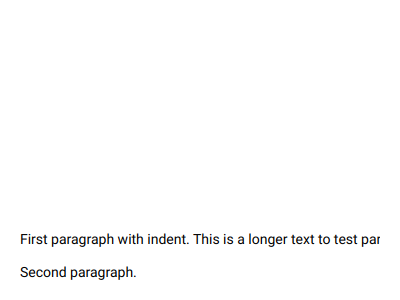
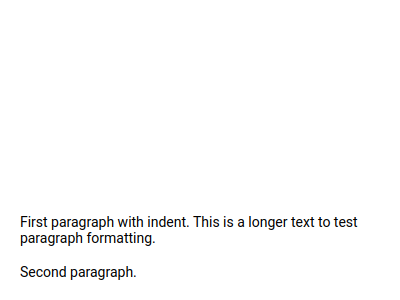
Improve Slint exporter text rendering: shadow, caps, wrap, letter-spacing
- Replace stroke-based text shadow with duplicate-text offset approach,
  producing proper shadow visuals (drop_shadow: 15.9% → 96.7%)
- Transform text to uppercase when fontCaps == 2 (AllCaps)
- Add wrap: word-wrap for paragraph text (ParagraphText type)
- Add letter-spacing property for absolute and percentage spacing

Changed region(s): [[0.03, 0.72, 0.96, 0.84], [0.03, 0.87, 0.33, 0.93]]

diff --git a/src/plugins/psdexporter/slint/slint.cpp b/src/plugins/psdexporter/slint/slint.cpp
@@ -519,30 +519,69 @@ bool QPsdExporterSlintPlugin::outputText(const QModelIndex &textIndex, Element *
     }
     if (runs.size() == 1) {
         const auto run = runs.first();
-        element->type = "Text";
-        element->properties.insert("overflow", "clip");
         QRect rect = computeTextBounds(text);
-        if (!outputBase(textIndex, element, imports, rect))
-            return false;
-        element->properties.insert("text", u"\"%1\""_s.arg(run.text.trimmed().replace("\n", "\\n")));
-        element->properties.insert("font-family", u"\"%1\""_s.arg(run.font.family()));
-        element->properties.insert("font-size", u"%1px"_s.ARGF(run.font.pointSizeF() * fontScaleFactor));
-        if (run.font.bold() || run.fauxBold)
-            element->properties.insert("font-weight", 700);
-        if (run.font.italic() || run.fauxItalic)
-            element->properties.insert("font-italic", true);
-        element->properties.insert("color", colorToSlint(run.color));
-        element->properties.insert("horizontal-alignment",
-            horizontalAlignmentString(run.alignment, {"left"_L1, "right"_L1, "center"_L1, "left"_L1}));
-        {
-            const auto vAlign = verticalAlignmentString(run.alignment, {"top"_L1, "bottom"_L1, "center"_L1});
-            if (!vAlign.isEmpty())
-                element->properties.insert("vertical-alignment", vAlign);
-        }
+        QString displayText = run.text.trimmed();
+        if (run.fontCaps == 2)
+            displayText = displayText.toUpper();
+        displayText.replace("\n"_L1, "\\n"_L1);
+
+        auto setTextProperties = [&](Element *e) {
+            e->type = "Text";
+            e->properties.insert("overflow", "clip");
+            e->properties.insert("text", u"\"%1\""_s.arg(displayText));
+            e->properties.insert("font-family", u"\"%1\""_s.arg(run.font.family()));
+            e->properties.insert("font-size", u"%1px"_s.ARGF(run.font.pointSizeF() * fontScaleFactor));
+            if (run.font.bold() || run.fauxBold)
+                e->properties.insert("font-weight", 700);
+            if (run.font.italic() || run.fauxItalic)
+                e->properties.insert("font-italic", true);
+            if (run.font.letterSpacingType() == QFont::AbsoluteSpacing) {
+                const qreal ls = run.font.letterSpacing();
+                if (qAbs(ls) > 0.01)
+                    e->properties.insert("letter-spacing", u"%1px"_s.ARGF(ls * fontScaleFactor));
+            } else if (run.font.letterSpacingType() == QFont::PercentageSpacing) {
+                const qreal ls = run.font.letterSpacing();
+                if (ls > 0.01 && qAbs(ls - 100.0) > 0.01)
+                    e->properties.insert("letter-spacing", u"%1px"_s.ARGF((ls - 100.0) / 100.0 * run.font.pointSizeF() * fontScaleFactor));
+            }
+            e->properties.insert("horizontal-alignment",
+                horizontalAlignmentString(run.alignment, {"left"_L1, "right"_L1, "center"_L1, "left"_L1}));
+            {
+                const auto vAlign = verticalAlignmentString(run.alignment, {"top"_L1, "bottom"_L1, "center"_L1});
+                if (!vAlign.isEmpty())
+                    e->properties.insert("vertical-alignment", vAlign);
+            }
+            if (text->textType() == QPsdTextLayerItem::TextType::ParagraphText)
+                e->properties.insert("wrap", "word-wrap");
+        };
+
         if (shadow) {
-            // slint doesn't support dropshadow for text
-            element->properties.insert("stroke-width", u"%1px"_s.ARGF(2 * unitScale));
-            element->properties.insert("stroke", shadow->color.name(QColor::HexArgb));
+            element->type = "Rectangle";
+            if (!outputBase(textIndex, element, imports, rect))
+                return false;
+            element->properties.insert("background", "transparent");
+
+            Element shadowText;
+            setTextProperties(&shadowText);
+            shadowText.properties.insert("color", colorToSlint(shadow->color));
+            const auto offset = dropShadowOffset(*shadow, true);
+            shadowText.properties.insert("x", u"%1px"_s.ARGF(offset.x()));
+            shadowText.properties.insert("y", u"%1px"_s.ARGF(offset.y()));
+            shadowText.properties.insert("width", "100%");
+            shadowText.properties.insert("height", "100%");
+            element->children.append(shadowText);
+
+            Element mainText;
+            setTextProperties(&mainText);
+            mainText.properties.insert("color", colorToSlint(run.color));
+            mainText.properties.insert("width", "100%");
+            mainText.properties.insert("height", "100%");
+            element->children.append(mainText);
+        } else {
+            setTextProperties(element);
+            if (!outputBase(textIndex, element, imports, rect))
+                return false;
+            element->properties.insert("color", colorToSlint(run.color));
         }
     } else {
         element->type = "Rectangle";
@@ -572,13 +611,25 @@ bool QPsdExporterSlintPlugin::outputText(const QModelIndex &textIndex, Element *
                 }
                 Element textElement;
                 textElement.type = "Text";
-                textElement.properties.insert("text", u"\"%1\""_s.arg(text));
+                QString displayText = text;
+                if (run.fontCaps == 2)
+                    displayText = displayText.toUpper();
+                textElement.properties.insert("text", u"\"%1\""_s.arg(displayText));
                 textElement.properties.insert("font-family", u"\"%1\""_s.arg(run.font.family()));
                 textElement.properties.insert("font-size", u"%1px"_s.ARGF(run.font.pointSizeF() * fontScaleFactor));
                 if (run.font.bold() || run.fauxBold)
                     textElement.properties.insert("font-weight", 700);
                 if (run.font.italic() || run.fauxItalic)
                     textElement.properties.insert("font-italic", true);
+                if (run.font.letterSpacingType() == QFont::AbsoluteSpacing) {
+                    const qreal ls = run.font.letterSpacing();
+                    if (qAbs(ls) > 0.01)
+                        textElement.properties.insert("letter-spacing", u"%1px"_s.ARGF(ls * fontScaleFactor));
+                } else if (run.font.letterSpacingType() == QFont::PercentageSpacing) {
+                    const qreal ls = run.font.letterSpacing();
+                    if (ls > 0.01 && qAbs(ls - 100.0) > 0.01)
+                        textElement.properties.insert("letter-spacing", u"%1px"_s.ARGF((ls - 100.0) / 100.0 * run.font.pointSizeF() * fontScaleFactor));
+                }
                 textElement.properties.insert("color", colorToSlint(run.color));
                 textElement.properties.insert("horizontal-alignment",
                     horizontalAlignmentString(run.alignment, {"left"_L1, "right"_L1, "center"_L1, "left"_L1}));

diff --git a/docs/similarity_report_psd-zoo.md b/docs/similarity_report_psd-zoo.md
@@ -5,8 +5,8 @@
 | Metric | Image Data vs QPsdView | Image Data vs QtQuick Export | Image Data vs Slint Export | Image Data vs Flutter Export | Image Data vs LVGL Export |
 |--------|------------------------|------------------------------|----------------------------|------------------------------|---------------------------|
 | Total Tests | 337 | 337 | 337 | 337 | 337 |
-| Passed Tests (>50%) | 293 (86.9%) | 234 (69.4%) | 230 (68.2%) | 215 (63.8%) | 216 (64.1%) |
-| Average Similarity | 87.69% | 70.91% | 69.94% | 67.50% | 66.63% |
+| Passed Tests (>50%) | 293 (86.9%) | 234 (69.4%) | 231 (68.5%) | 215 (63.8%) | 216 (64.1%) |
+| Average Similarity | 87.69% | 70.91% | 69.86% | 67.50% | 66.63% |
 
 ## adjustment
 
@@ -645,13 +645,13 @@
 |---:|---:|---:|---:|---:|---:|
 | [align_center.psd](https://github.com/signal-slot/psd-zoo/blob/master/text/align_center.psd) | 93.54% | [9.18%](exports/psd-zoo/text/align_center/QtQuick/) | [3.19%](exports/psd-zoo/text/align_center/Slint/) | [27.98%](exports/psd-zoo/text/align_center/Flutter/) | [21.50%](exports/psd-zoo/text/align_center/LVGL/) |
 | [<img src="images/imagedata/psd-zoo/text/align_center.png" width="140">](images/imagedata/psd-zoo/text/align_center.png) | [<img src="images/psdview/psd-zoo/text/align_center.png" width="140">](images/psdview/psd-zoo/text/align_center.png) | [<img src="images/qtquick/psd-zoo/text/align_center.png" width="140">](images/qtquick/psd-zoo/text/align_center.png) | [<img src="images/slint/psd-zoo/text/align_center.png" width="140">](images/slint/psd-zoo/text/align_center.png) | [<img src="images/flutter/psd-zoo/text/align_center.png" width="140">](images/flutter/psd-zoo/text/align_center.png) | [<img src="images/lvgl/psd-zoo/text/align_center.png" width="140">](images/lvgl/psd-zoo/text/align_center.png) |
-| [align_justify.psd](https://github.com/signal-slot/psd-zoo/blob/master/text/align_justify.psd) | 28.58% | [11.24%](exports/psd-zoo/text/align_justify/QtQuick/) | [15.68%](exports/psd-zoo/text/align_justify/Slint/) | [32.55%](exports/psd-zoo/text/align_justify/Flutter/) | [23.69%](exports/psd-zoo/text/align_justify/LVGL/) |
+| [align_justify.psd](https://github.com/signal-slot/psd-zoo/blob/master/text/align_justify.psd) | 28.58% | [11.24%](exports/psd-zoo/text/align_justify/QtQuick/) | [11.90%](exports/psd-zoo/text/align_justify/Slint/) | [32.55%](exports/psd-zoo/text/align_justify/Flutter/) | [23.69%](exports/psd-zoo/text/align_justify/LVGL/) |
 | [<img src="images/imagedata/psd-zoo/text/align_justify.png" width="140">](images/imagedata/psd-zoo/text/align_justify.png) | [<img src="images/psdview/psd-zoo/text/align_justify.png" width="140">](images/psdview/psd-zoo/text/align_justify.png) | [<img src="images/qtquick/psd-zoo/text/align_justify.png" width="140">](images/qtquick/psd-zoo/text/align_justify.png) | [<img src="images/slint/psd-zoo/text/align_justify.png" width="140">](images/slint/psd-zoo/text/align_justify.png) | [<img src="images/flutter/psd-zoo/text/align_justify.png" width="140">](images/flutter/psd-zoo/text/align_justify.png) | [<img src="images/lvgl/psd-zoo/text/align_justify.png" width="140">](images/lvgl/psd-zoo/text/align_justify.png) |
 | [align_left.psd](https://github.com/signal-slot/psd-zoo/blob/master/text/align_left.psd) | 84.67% | [11.78%](exports/psd-zoo/text/align_left/QtQuick/) | [4.09%](exports/psd-zoo/text/align_left/Slint/) | [23.53%](exports/psd-zoo/text/align_left/Flutter/) | [17.62%](exports/psd-zoo/text/align_left/LVGL/) |
 | [<img src="images/imagedata/psd-zoo/text/align_left.png" width="140">](images/imagedata/psd-zoo/text/align_left.png) | [<img src="images/psdview/psd-zoo/text/align_left.png" width="140">](images/psdview/psd-zoo/text/align_left.png) | [<img src="images/qtquick/psd-zoo/text/align_left.png" width="140">](images/qtquick/psd-zoo/text/align_left.png) | [<img src="images/slint/psd-zoo/text/align_left.png" width="140">](images/slint/psd-zoo/text/align_left.png) | [<img src="images/flutter/psd-zoo/text/align_left.png" width="140">](images/flutter/psd-zoo/text/align_left.png) | [<img src="images/lvgl/psd-zoo/text/align_left.png" width="140">](images/lvgl/psd-zoo/text/align_left.png) |
 | [align_right.psd](https://github.com/signal-slot/psd-zoo/blob/master/text/align_right.psd) | 88.74% | [7.35%](exports/psd-zoo/text/align_right/QtQuick/) | [3.11%](exports/psd-zoo/text/align_right/Slint/) | [20.59%](exports/psd-zoo/text/align_right/Flutter/) | [18.66%](exports/psd-zoo/text/align_right/LVGL/) |
 | [<img src="images/imagedata/psd-zoo/text/align_right.png" width="140">](images/imagedata/psd-zoo/text/align_right.png) | [<img src="images/psdview/psd-zoo/text/align_right.png" width="140">](images/psdview/psd-zoo/text/align_right.png) | [<img src="images/qtquick/psd-zoo/text/align_right.png" width="140">](images/qtquick/psd-zoo/text/align_right.png) | [<img src="images/slint/psd-zoo/text/align_right.png" width="140">](images/slint/psd-zoo/text/align_right.png) | [<img src="images/flutter/psd-zoo/text/align_right.png" width="140">](images/flutter/psd-zoo/text/align_right.png) | [<img src="images/lvgl/psd-zoo/text/align_right.png" width="140">](images/lvgl/psd-zoo/text/align_right.png) |
-| [all_caps.psd](https://github.com/signal-slot/psd-zoo/blob/master/text/all_caps.psd) | 27.67% | [13.91%](exports/psd-zoo/text/all_caps/QtQuick/) | [9.61%](exports/psd-zoo/text/all_caps/Slint/) | [21.16%](exports/psd-zoo/text/all_caps/Flutter/) | [15.97%](exports/psd-zoo/text/all_caps/LVGL/) |
+| [all_caps.psd](https://github.com/signal-slot/psd-zoo/blob/master/text/all_caps.psd) | 27.67% | [13.91%](exports/psd-zoo/text/all_caps/QtQuick/) | [13.21%](exports/psd-zoo/text/all_caps/Slint/) | [21.16%](exports/psd-zoo/text/all_caps/Flutter/) | [15.97%](exports/psd-zoo/text/all_caps/LVGL/) |
 | [<img src="images/imagedata/psd-zoo/text/all_caps.png" width="140">](images/imagedata/psd-zoo/text/all_caps.png) | [<img src="images/psdview/psd-zoo/text/all_caps.png" width="140">](images/psdview/psd-zoo/text/all_caps.png) | [<img src="images/qtquick/psd-zoo/text/all_caps.png" width="140">](images/qtquick/psd-zoo/text/all_caps.png) | [<img src="images/slint/psd-zoo/text/all_caps.png" width="140">](images/slint/psd-zoo/text/all_caps.png) | [<img src="images/flutter/psd-zoo/text/all_caps.png" width="140">](images/flutter/psd-zoo/text/all_caps.png) | [<img src="images/lvgl/psd-zoo/text/all_caps.png" width="140">](images/lvgl/psd-zoo/text/all_caps.png) |
 | [anti_alias_crisp.psd](https://github.com/signal-slot/psd-zoo/blob/master/text/anti_alias_crisp.psd) | 84.84% | [19.30%](exports/psd-zoo/text/anti_alias_crisp/QtQuick/) | [19.85%](exports/psd-zoo/text/anti_alias_crisp/Slint/) | [25.50%](exports/psd-zoo/text/anti_alias_crisp/Flutter/) | [16.10%](exports/psd-zoo/text/anti_alias_crisp/LVGL/) |
 | [<img src="images/imagedata/psd-zoo/text/anti_alias_crisp.png" width="140">](images/imagedata/psd-zoo/text/anti_alias_crisp.png) | [<img src="images/psdview/psd-zoo/text/anti_alias_crisp.png" width="140">](images/psdview/psd-zoo/text/anti_alias_crisp.png) | [<img src="images/qtquick/psd-zoo/text/anti_alias_crisp.png" width="140">](images/qtquick/psd-zoo/text/anti_alias_crisp.png) | [<img src="images/slint/psd-zoo/text/anti_alias_crisp.png" width="140">](images/slint/psd-zoo/text/anti_alias_crisp.png) | [<img src="images/flutter/psd-zoo/text/anti_alias_crisp.png" width="140">](images/flutter/psd-zoo/text/anti_alias_crisp.png) | [<img src="images/lvgl/psd-zoo/text/anti_alias_crisp.png" width="140">](images/lvgl/psd-zoo/text/anti_alias_crisp.png) |
@@ -667,7 +667,7 @@
 | [<img src="images/imagedata/psd-zoo/text/baseline_shift.png" width="140">](images/imagedata/psd-zoo/text/baseline_shift.png) | [<img src="images/psdview/psd-zoo/text/baseline_shift.png" width="140">](images/psdview/psd-zoo/text/baseline_shift.png) | [<img src="images/qtquick/psd-zoo/text/baseline_shift.png" width="140">](images/qtquick/psd-zoo/text/baseline_shift.png) | [<img src="images/slint/psd-zoo/text/baseline_shift.png" width="140">](images/slint/psd-zoo/text/baseline_shift.png) | [<img src="images/flutter/psd-zoo/text/baseline_shift.png" width="140">](images/flutter/psd-zoo/text/baseline_shift.png) | [<img src="images/lvgl/psd-zoo/text/baseline_shift.png" width="140">](images/lvgl/psd-zoo/text/baseline_shift.png) |
 | [bold.psd](https://github.com/signal-slot/psd-zoo/blob/master/text/bold.psd) | 52.72% | [32.22%](exports/psd-zoo/text/bold/QtQuick/) | [29.93%](exports/psd-zoo/text/bold/Slint/) | [19.40%](exports/psd-zoo/text/bold/Flutter/) | [11.56%](exports/psd-zoo/text/bold/LVGL/) |
 | [<img src="images/imagedata/psd-zoo/text/bold.png" width="140">](images/imagedata/psd-zoo/text/bold.png) | [<img src="images/psdview/psd-zoo/text/bold.png" width="140">](images/psdview/psd-zoo/text/bold.png) | [<img src="images/qtquick/psd-zoo/text/bold.png" width="140">](images/qtquick/psd-zoo/text/bold.png) | [<img src="images/slint/psd-zoo/text/bold.png" width="140">](images/slint/psd-zoo/text/bold.png) | [<img src="images/flutter/psd-zoo/text/bold.png" width="140">](images/flutter/psd-zoo/text/bold.png) | [<img src="images/lvgl/psd-zoo/text/bold.png" width="140">](images/lvgl/psd-zoo/text/bold.png) |
-| [drop_shadow.psd](https://github.com/signal-slot/psd-zoo/blob/master/text/drop_shadow.psd) | 99.82% | [FAILED](exports/psd-zoo/text/drop_shadow/QtQuick/) | [97.42%](exports/psd-zoo/text/drop_shadow/Slint/) | [96.65%](exports/psd-zoo/text/drop_shadow/Flutter/) | [96.73%](exports/psd-zoo/text/drop_shadow/LVGL/) |
+| [drop_shadow.psd](https://github.com/signal-slot/psd-zoo/blob/master/text/drop_shadow.psd) | 99.82% | [FAILED](exports/psd-zoo/text/drop_shadow/QtQuick/) | [96.73%](exports/psd-zoo/text/drop_shadow/Slint/) | [96.65%](exports/psd-zoo/text/drop_shadow/Flutter/) | [96.73%](exports/psd-zoo/text/drop_shadow/LVGL/) |
 | [<img src="images/imagedata/psd-zoo/text/drop_shadow.png" width="140">](images/imagedata/psd-zoo/text/drop_shadow.png) | [<img src="images/psdview/psd-zoo/text/drop_shadow.png" width="140">](images/psdview/psd-zoo/text/drop_shadow.png) | - | [<img src="images/slint/psd-zoo/text/drop_shadow.png" width="140">](images/slint/psd-zoo/text/drop_shadow.png) | [<img src="images/flutter/psd-zoo/text/drop_shadow.png" width="140">](images/flutter/psd-zoo/text/drop_shadow.png) | [<img src="images/lvgl/psd-zoo/text/drop_shadow.png" width="140">](images/lvgl/psd-zoo/text/drop_shadow.png) |
 | [emoji.psd](https://github.com/signal-slot/psd-zoo/blob/master/text/emoji.psd) | 25.33% | [15.90%](exports/psd-zoo/text/emoji/QtQuick/) | [20.83%](exports/psd-zoo/text/emoji/Slint/) | [30.39%](exports/psd-zoo/text/emoji/Flutter/) | [3.70%](exports/psd-zoo/text/emoji/LVGL/) |
 | [<img src="images/imagedata/psd-zoo/text/emoji.png" width="140">](images/imagedata/psd-zoo/text/emoji.png) | [<img src="images/psdview/psd-zoo/text/emoji.png" width="140">](images/psdview/psd-zoo/text/emoji.png) | [<img src="images/qtquick/psd-zoo/text/emoji.png" width="140">](images/qtquick/psd-zoo/text/emoji.png) | [<img src="images/slint/psd-zoo/text/emoji.png" width="140">](images/slint/psd-zoo/text/emoji.png) | [<img src="images/flutter/psd-zoo/text/emoji.png" width="140">](images/flutter/psd-zoo/text/emoji.png) | [<img src="images/lvgl/psd-zoo/text/emoji.png" width="140">](images/lvgl/psd-zoo/text/emoji.png) |
@@ -677,19 +677,19 @@
 | [<img src="images/imagedata/psd-zoo/text/faux_italic.png" width="140">](images/imagedata/psd-zoo/text/faux_italic.png) | [<img src="images/psdview/psd-zoo/text/faux_italic.png" width="140">](images/psdview/psd-zoo/text/faux_italic.png) | [<img src="images/qtquick/psd-zoo/text/faux_italic.png" width="140">](images/qtquick/psd-zoo/text/faux_italic.png) | [<img src="images/slint/psd-zoo/text/faux_italic.png" width="140">](images/slint/psd-zoo/text/faux_italic.png) | [<img src="images/flutter/psd-zoo/text/faux_italic.png" width="140">](images/flutter/psd-zoo/text/faux_italic.png) | [<img src="images/lvgl/psd-zoo/text/faux_italic.png" width="140">](images/lvgl/psd-zoo/text/faux_italic.png) |
 | [horizontal_scale.psd](https://github.com/signal-slot/psd-zoo/blob/master/text/horizontal_scale.psd) | 92.74% | [14.67%](exports/psd-zoo/text/horizontal_scale/QtQuick/) | [12.67%](exports/psd-zoo/text/horizontal_scale/Slint/) | [19.37%](exports/psd-zoo/text/horizontal_scale/Flutter/) | [16.00%](exports/psd-zoo/text/horizontal_scale/LVGL/) |
 | [<img src="images/imagedata/psd-zoo/text/horizontal_scale.png" width="140">](images/imagedata/psd-zoo/text/horizontal_scale.png) | [<img src="images/psdview/psd-zoo/text/horizontal_scale.png" width="140">](images/psdview/psd-zoo/text/horizontal_scale.png) | [<img src="images/qtquick/psd-zoo/text/horizontal_scale.png" width="140">](images/qtquick/psd-zoo/text/horizontal_scale.png) | [<img src="images/slint/psd-zoo/text/horizontal_scale.png" width="140">](images/slint/psd-zoo/text/horizontal_scale.png) | [<img src="images/flutter/psd-zoo/text/horizontal_scale.png" width="140">](images/flutter/psd-zoo/text/horizontal_scale.png) | [<img src="images/lvgl/psd-zoo/text/horizontal_scale.png" width="140">](images/lvgl/psd-zoo/text/horizontal_scale.png) |
-| [hyphenation.psd](https://github.com/signal-slot/psd-zoo/blob/master/text/hyphenation.psd) | 31.80% | [11.39%](exports/psd-zoo/text/hyphenation/QtQuick/) | [18.12%](exports/psd-zoo/text/hyphenation/Slint/) | [32.25%](exports/psd-zoo/text/hyphenation/Flutter/) | [23.27%](exports/psd-zoo/text/hyphenation/LVGL/) |
+| [hyphenation.psd](https://github.com/signal-slot/psd-zoo/blob/master/text/hyphenation.psd) | 31.80% | [11.39%](exports/psd-zoo/text/hyphenation/QtQuick/) | [12.17%](exports/psd-zoo/text/hyphenation/Slint/) | [32.25%](exports/psd-zoo/text/hyphenation/Flutter/) | [23.27%](exports/psd-zoo/text/hyphenation/LVGL/) |
 | [<img src="images/imagedata/psd-zoo/text/hyphenation.png" width="140">](images/imagedata/psd-zoo/text/hyphenation.png) | [<img src="images/psdview/psd-zoo/text/hyphenation.png" width="140">](images/psdview/psd-zoo/text/hyphenation.png) | [<img src="images/qtquick/psd-zoo/text/hyphenation.png" width="140">](images/qtquick/psd-zoo/text/hyphenation.png) | [<img src="images/slint/psd-zoo/text/hyphenation.png" width="140">](images/slint/psd-zoo/text/hyphenation.png) | [<img src="images/flutter/psd-zoo/text/hyphenation.png" width="140">](images/flutter/psd-zoo/text/hyphenation.png) | [<img src="images/lvgl/psd-zoo/text/hyphenation.png" width="140">](images/lvgl/psd-zoo/text/hyphenation.png) |
-| [indent_lr.psd](https://github.com/signal-slot/psd-zoo/blob/master/text/indent_lr.psd) | 55.11% | [14.77%](exports/psd-zoo/text/indent_lr/QtQuick/) | [18.52%](exports/psd-zoo/text/indent_lr/Slint/) | [32.88%](exports/psd-zoo/text/indent_lr/Flutter/) | [23.96%](exports/psd-zoo/text/indent_lr/LVGL/) |
+| [indent_lr.psd](https://github.com/signal-slot/psd-zoo/blob/master/text/indent_lr.psd) | 55.11% | [14.77%](exports/psd-zoo/text/indent_lr/QtQuick/) | [14.15%](exports/psd-zoo/text/indent_lr/Slint/) | [32.88%](exports/psd-zoo/text/indent_lr/Flutter/) | [23.96%](exports/psd-zoo/text/indent_lr/LVGL/) |
 | [<img src="images/imagedata/psd-zoo/text/indent_lr.png" width="140">](images/imagedata/psd-zoo/text/indent_lr.png) | [<img src="images/psdview/psd-zoo/text/indent_lr.png" width="140">](images/psdview/psd-zoo/text/indent_lr.png) | [<img src="images/qtquick/psd-zoo/text/indent_lr.png" width="140">](images/qtquick/psd-zoo/text/indent_lr.png) | [<img src="images/slint/psd-zoo/text/indent_lr.png" width="140">](images/slint/psd-zoo/text/indent_lr.png) | [<img src="images/flutter/psd-zoo/text/indent_lr.png" width="140">](images/flutter/psd-zoo/text/indent_lr.png) | [<img src="images/lvgl/psd-zoo/text/indent_lr.png" width="140">](images/lvgl/psd-zoo/text/indent_lr.png) |
 | [italic.psd](https://github.com/signal-slot/psd-zoo/blob/master/text/italic.psd) | 81.23% | [8.46%](exports/psd-zoo/text/italic/QtQuick/) | [7.29%](exports/psd-zoo/text/italic/Slint/) | [25.41%](exports/psd-zoo/text/italic/Flutter/) | [15.32%](exports/psd-zoo/text/italic/LVGL/) |
 | [<img src="images/imagedata/psd-zoo/text/italic.png" width="140">](images/imagedata/psd-zoo/text/italic.png) | [<img src="images/psdview/psd-zoo/text/italic.png" width="140">](images/psdview/psd-zoo/text/italic.png) | [<img src="images/qtquick/psd-zoo/text/italic.png" width="140">](images/qtquick/psd-zoo/text/italic.png) | [<img src="images/slint/psd-zoo/text/italic.png" width="140">](images/slint/psd-zoo/text/italic.png) | [<img src="images/flutter/psd-zoo/text/italic.png" width="140">](images/flutter/psd-zoo/text/italic.png) | [<img src="images/lvgl/psd-zoo/text/italic.png" width="140">](images/lvgl/psd-zoo/text/italic.png) |
-| [justify_all.psd](https://github.com/signal-slot/psd-zoo/blob/master/text/justify_all.psd) | 29.63% | [12.49%](exports/psd-zoo/text/justify_all/QtQuick/) | [15.90%](exports/psd-zoo/text/justify_all/Slint/) | [33.80%](exports/psd-zoo/text/justify_all/Flutter/) | [23.67%](exports/psd-zoo/text/justify_all/LVGL/) |
+| [justify_all.psd](https://github.com/signal-slot/psd-zoo/blob/master/text/justify_all.psd) | 29.63% | [12.49%](exports/psd-zoo/text/justify_all/QtQuick/) | [13.13%](exports/psd-zoo/text/justify_all/Slint/) | [33.80%](exports/psd-zoo/text/justify_all/Flutter/) | [23.67%](exports/psd-zoo/text/justify_all/LVGL/) |
 | [<img src="images/imagedata/psd-zoo/text/justify_all.png" width="140">](images/imagedata/psd-zoo/text/justify_all.png) | [<img src="images/psdview/psd-zoo/text/justify_all.png" width="140">](images/psdview/psd-zoo/text/justify_all.png) | [<img src="images/qtquick/psd-zoo/text/justify_all.png" width="140">](images/qtquick/psd-zoo/text/justify_all.png) | [<img src="images/slint/psd-zoo/text/justify_all.png" width="140">](images/slint/psd-zoo/text/justify_all.png) | [<img src="images/flutter/psd-zoo/text/justify_all.png" width="140">](images/flutter/psd-zoo/text/justify_all.png) | [<img src="images/lvgl/psd-zoo/text/justify_all.png" width="140">](images/lvgl/psd-zoo/text/justify_all.png) |
 | [large_font.psd](https://github.com/signal-slot/psd-zoo/blob/master/text/large_font.psd) | 92.98% | [53.69%](exports/psd-zoo/text/large_font/QtQuick/) | [66.33%](exports/psd-zoo/text/large_font/Slint/) | [22.35%](exports/psd-zoo/text/large_font/Flutter/) | [6.30%](exports/psd-zoo/text/large_font/LVGL/) |
 | [<img src="images/imagedata/psd-zoo/text/large_font.png" width="140">](images/imagedata/psd-zoo/text/large_font.png) | [<img src="images/psdview/psd-zoo/text/large_font.png" width="140">](images/psdview/psd-zoo/text/large_font.png) | [<img src="images/qtquick/psd-zoo/text/large_font.png" width="140">](images/qtquick/psd-zoo/text/large_font.png) | [<img src="images/slint/psd-zoo/text/large_font.png" width="140">](images/slint/psd-zoo/text/large_font.png) | [<img src="images/flutter/psd-zoo/text/large_font.png" width="140">](images/flutter/psd-zoo/text/large_font.png) | [<img src="images/lvgl/psd-zoo/text/large_font.png" width="140">](images/lvgl/psd-zoo/text/large_font.png) |
 | [leading.psd](https://github.com/signal-slot/psd-zoo/blob/master/text/leading.psd) | 33.52% | [18.54%](exports/psd-zoo/text/leading/QtQuick/) | [15.43%](exports/psd-zoo/text/leading/Slint/) | [26.33%](exports/psd-zoo/text/leading/Flutter/) | [21.90%](exports/psd-zoo/text/leading/LVGL/) |
 | [<img src="images/imagedata/psd-zoo/text/leading.png" width="140">](images/imagedata/psd-zoo/text/leading.png) | [<img src="images/psdview/psd-zoo/text/leading.png" width="140">](images/psdview/psd-zoo/text/leading.png) | [<img src="images/qtquick/psd-zoo/text/leading.png" width="140">](images/qtquick/psd-zoo/text/leading.png) | [<img src="images/slint/psd-zoo/text/leading.png" width="140">](images/slint/psd-zoo/text/leading.png) | [<img src="images/flutter/psd-zoo/text/leading.png" width="140">](images/flutter/psd-zoo/text/leading.png) | [<img src="images/lvgl/psd-zoo/text/leading.png" width="140">](images/lvgl/psd-zoo/text/leading.png) |
-| [long_content.psd](https://github.com/signal-slot/psd-zoo/blob/master/text/long_content.psd) | 34.07% | [14.24%](exports/psd-zoo/text/long_content/QtQuick/) | [27.58%](exports/psd-zoo/text/long_content/Slint/) | [33.43%](exports/psd-zoo/text/long_content/Flutter/) | [23.76%](exports/psd-zoo/text/long_content/LVGL/) |
+| [long_content.psd](https://github.com/signal-slot/psd-zoo/blob/master/text/long_content.psd) | 34.07% | [14.24%](exports/psd-zoo/text/long_content/QtQuick/) | [13.56%](exports/psd-zoo/text/long_content/Slint/) | [33.43%](exports/psd-zoo/text/long_content/Flutter/) | [23.76%](exports/psd-zoo/text/long_content/LVGL/) |
 | [<img src="images/imagedata/psd-zoo/text/long_content.png" width="140">](images/imagedata/psd-zoo/text/long_content.png) | [<img src="images/psdview/psd-zoo/text/long_content.png" width="140">](images/psdview/psd-zoo/text/long_content.png) | [<img src="images/qtquick/psd-zoo/text/long_content.png" width="140">](images/qtquick/psd-zoo/text/long_content.png) | [<img src="images/slint/psd-zoo/text/long_content.png" width="140">](images/slint/psd-zoo/text/long_content.png) | [<img src="images/flutter/psd-zoo/text/long_content.png" width="140">](images/flutter/psd-zoo/text/long_content.png) | [<img src="images/lvgl/psd-zoo/text/long_content.png" width="140">](images/lvgl/psd-zoo/text/long_content.png) |
 | [mixed_fonts.psd](https://github.com/signal-slot/psd-zoo/blob/master/text/mixed_fonts.psd) | 88.06% | [9.28%](exports/psd-zoo/text/mixed_fonts/QtQuick/) | [4.04%](exports/psd-zoo/text/mixed_fonts/Slint/) | [28.47%](exports/psd-zoo/text/mixed_fonts/Flutter/) | [19.35%](exports/psd-zoo/text/mixed_fonts/LVGL/) |
 | [<img src="images/imagedata/psd-zoo/text/mixed_fonts.png" width="140">](images/imagedata/psd-zoo/text/mixed_fonts.png) | [<img src="images/psdview/psd-zoo/text/mixed_fonts.png" width="140">](images/psdview/psd-zoo/text/mixed_fonts.png) | [<img src="images/qtquick/psd-zoo/text/mixed_fonts.png" width="140">](images/qtquick/psd-zoo/text/mixed_fonts.png) | [<img src="images/slint/psd-zoo/text/mixed_fonts.png" width="140">](images/slint/psd-zoo/text/mixed_fonts.png) | [<img src="images/flutter/psd-zoo/text/mixed_fonts.png" width="140">](images/flutter/psd-zoo/text/mixed_fonts.png) | [<img src="images/lvgl/psd-zoo/text/mixed_fonts.png" width="140">](images/lvgl/psd-zoo/text/mixed_fonts.png) |
@@ -703,11 +703,11 @@
 | [<img src="images/imagedata/psd-zoo/text/nobreak.png" width="140">](images/imagedata/psd-zoo/text/nobreak.png) | [<img src="images/psdview/psd-zoo/text/nobreak.png" width="140">](images/psdview/psd-zoo/text/nobreak.png) | [<img src="images/qtquick/psd-zoo/text/nobreak.png" width="140">](images/qtquick/psd-zoo/text/nobreak.png) | [<img src="images/slint/psd-zoo/text/nobreak.png" width="140">](images/slint/psd-zoo/text/nobreak.png) | [<img src="images/flutter/psd-zoo/text/nobreak.png" width="140">](images/flutter/psd-zoo/text/nobreak.png) | [<img src="images/lvgl/psd-zoo/text/nobreak.png" width="140">](images/lvgl/psd-zoo/text/nobreak.png) |
 | [on_shape.psd](https://github.com/signal-slot/psd-zoo/blob/master/text/on_shape.psd) | 99.86% | [98.26%](exports/psd-zoo/text/on_shape/QtQuick/) | [97.95%](exports/psd-zoo/text/on_shape/Slint/) | [94.93%](exports/psd-zoo/text/on_shape/Flutter/) | [95.19%](exports/psd-zoo/text/on_shape/LVGL/) |
 | [<img src="images/imagedata/psd-zoo/text/on_shape.png" width="140">](images/imagedata/psd-zoo/text/on_shape.png) | [<img src="images/psdview/psd-zoo/text/on_shape.png" width="140">](images/psdview/psd-zoo/text/on_shape.png) | [<img src="images/qtquick/psd-zoo/text/on_shape.png" width="140">](images/qtquick/psd-zoo/text/on_shape.png) | [<img src="images/slint/psd-zoo/text/on_shape.png" width="140">](images/slint/psd-zoo/text/on_shape.png) | [<img src="images/flutter/psd-zoo/text/on_shape.png" width="140">](images/flutter/psd-zoo/text/on_shape.png) | [<img src="images/lvgl/psd-zoo/text/on_shape.png" width="140">](images/lvgl/psd-zoo/text/on_shape.png) |
-| [paragraph_box.psd](https://github.com/signal-slot/psd-zoo/blob/master/text/paragraph_box.psd) | 38.89% | [12.27%](exports/psd-zoo/text/paragraph_box/QtQuick/) | [17.19%](exports/psd-zoo/text/paragraph_box/Slint/) | [28.00%](exports/psd-zoo/text/paragraph_box/Flutter/) | [24.74%](exports/psd-zoo/text/paragraph_box/LVGL/) |
+| [paragraph_box.psd](https://github.com/signal-slot/psd-zoo/blob/master/text/paragraph_box.psd) | 38.89% | [12.27%](exports/psd-zoo/text/paragraph_box/QtQuick/) | [12.48%](exports/psd-zoo/text/paragraph_box/Slint/) | [28.00%](exports/psd-zoo/text/paragraph_box/Flutter/) | [24.74%](exports/psd-zoo/text/paragraph_box/LVGL/) |
 | [<img src="images/imagedata/psd-zoo/text/paragraph_box.png" width="140">](images/imagedata/psd-zoo/text/paragraph_box.png) | [<img src="images/psdview/psd-zoo/text/paragraph_box.png" width="140">](images/psdview/psd-zoo/text/paragraph_box.png) | [<img src="images/qtquick/psd-zoo/text/paragraph_box.png" width="140">](images/qtquick/psd-zoo/text/paragraph_box.png) | [<img src="images/slint/psd-zoo/text/paragraph_box.png" width="140">](images/slint/psd-zoo/text/paragraph_box.png) | [<img src="images/flutter/psd-zoo/text/paragraph_box.png" width="140">](images/flutter/psd-zoo/text/paragraph_box.png) | [<img src="images/lvgl/psd-zoo/text/paragraph_box.png" width="140">](images/lvgl/psd-zoo/text/paragraph_box.png) |
-| [paragraph_indent.psd](https://github.com/signal-slot/psd-zoo/blob/master/text/paragraph_indent.psd) | 33.80% | [11.06%](exports/psd-zoo/text/paragraph_indent/QtQuick/) | [13.53%](exports/psd-zoo/text/paragraph_indent/Slint/) | [31.50%](exports/psd-zoo/text/paragraph_indent/Flutter/) | [21.81%](exports/psd-zoo/text/paragraph_indent/LVGL/) |
+| [paragraph_indent.psd](https://github.com/signal-slot/psd-zoo/blob/master/text/paragraph_indent.psd) | 33.80% | [11.06%](exports/psd-zoo/text/paragraph_indent/QtQuick/) | [11.79%](exports/psd-zoo/text/paragraph_indent/Slint/) | [31.50%](exports/psd-zoo/text/paragraph_indent/Flutter/) | [21.81%](exports/psd-zoo/text/paragraph_indent/LVGL/) |
 | [<img src="images/imagedata/psd-zoo/text/paragraph_indent.png" width="140">](images/imagedata/psd-zoo/text/paragraph_indent.png) | [<img src="images/psdview/psd-zoo/text/paragraph_indent.png" width="140">](images/psdview/psd-zoo/text/paragraph_indent.png) | [<img src="images/qtquick/psd-zoo/text/paragraph_indent.png" width="140">](images/qtquick/psd-zoo/text/paragraph_indent.png) | [<img src="images/slint/psd-zoo/text/paragraph_indent.png" width="140">](images/slint/psd-zoo/text/paragraph_indent.png) | [<img src="images/flutter/psd-zoo/text/paragraph_indent.png" width="140">](images/flutter/psd-zoo/text/paragraph_indent.png) | [<img src="images/lvgl/psd-zoo/text/paragraph_indent.png" width="140">](images/lvgl/psd-zoo/text/paragraph_indent.png) |
-| [paragraph_spacing.psd](https://github.com/signal-slot/psd-zoo/blob/master/text/paragraph_spacing.psd) | 27.49% | [11.07%](exports/psd-zoo/text/paragraph_spacing/QtQuick/) | [12.16%](exports/psd-zoo/text/paragraph_spacing/Slint/) | [32.76%](exports/psd-zoo/text/paragraph_spacing/Flutter/) | [21.07%](exports/psd-zoo/text/paragraph_spacing/LVGL/) |
+| [paragraph_spacing.psd](https://github.com/signal-slot/psd-zoo/blob/master/text/paragraph_spacing.psd) | 27.49% | [11.07%](exports/psd-zoo/text/paragraph_spacing/QtQuick/) | [11.72%](exports/psd-zoo/text/paragraph_spacing/Slint/) | [32.76%](exports/psd-zoo/text/paragraph_spacing/Flutter/) | [21.07%](exports/psd-zoo/text/paragraph_spacing/LVGL/) |
 | [<img src="images/imagedata/psd-zoo/text/paragraph_spacing.png" width="140">](images/imagedata/psd-zoo/text/paragraph_spacing.png) | [<img src="images/psdview/psd-zoo/text/paragraph_spacing.png" width="140">](images/psdview/psd-zoo/text/paragraph_spacing.png) | [<img src="images/qtquick/psd-zoo/text/paragraph_spacing.png" width="140">](images/qtquick/psd-zoo/text/paragraph_spacing.png) | [<img src="images/slint/psd-zoo/text/paragraph_spacing.png" width="140">](images/slint/psd-zoo/text/paragraph_spacing.png) | [<img src="images/flutter/psd-zoo/text/paragraph_spacing.png" width="140">](images/flutter/psd-zoo/text/paragraph_spacing.png) | [<img src="images/lvgl/psd-zoo/text/paragraph_spacing.png" width="140">](images/lvgl/psd-zoo/text/paragraph_spacing.png) |
 | [positioned.psd](https://github.com/signal-slot/psd-zoo/blob/master/text/positioned.psd) | 91.30% | [10.96%](exports/psd-zoo/text/positioned/QtQuick/) | [4.86%](exports/psd-zoo/text/positioned/Slint/) | [31.69%](exports/psd-zoo/text/positioned/Flutter/) | [20.67%](exports/psd-zoo/text/positioned/LVGL/) |
 | [<img src="images/imagedata/psd-zoo/text/positioned.png" width="140">](images/imagedata/psd-zoo/text/positioned.png) | [<img src="images/psdview/psd-zoo/text/positioned.png" width="140">](images/psdview/psd-zoo/text/positioned.png) | [<img src="images/qtquick/psd-zoo/text/positioned.png" width="140">](images/qtquick/psd-zoo/text/positioned.png) | [<img src="images/slint/psd-zoo/text/positioned.png" width="140">](images/slint/psd-zoo/text/positioned.png) | [<img src="images/flutter/psd-zoo/text/positioned.png" width="140">](images/flutter/psd-zoo/text/positioned.png) | [<img src="images/lvgl/psd-zoo/text/positioned.png" width="140">](images/lvgl/psd-zoo/text/positioned.png) |
@@ -735,7 +735,7 @@
 | [<img src="images/imagedata/psd-zoo/text/white_on_black.png" width="140">](images/imagedata/psd-zoo/text/white_on_black.png) | [<img src="images/psdview/psd-zoo/text/white_on_black.png" width="140">](images/psdview/psd-zoo/text/white_on_black.png) | [<img src="images/qtquick/psd-zoo/text/white_on_black.png" width="140">](images/qtquick/psd-zoo/text/white_on_black.png) | [<img src="images/slint/psd-zoo/text/white_on_black.png" width="140">](images/slint/psd-zoo/text/white_on_black.png) | [<img src="images/flutter/psd-zoo/text/white_on_black.png" width="140">](images/flutter/psd-zoo/text/white_on_black.png) | [<img src="images/lvgl/psd-zoo/text/white_on_black.png" width="140">](images/lvgl/psd-zoo/text/white_on_black.png) |
 | [with_color.psd](https://github.com/signal-slot/psd-zoo/blob/master/text/with_color.psd) | 97.29% | [62.32%](exports/psd-zoo/text/with_color/QtQuick/) | [39.82%](exports/psd-zoo/text/with_color/Slint/) | [33.80%](exports/psd-zoo/text/with_color/Flutter/) | [36.12%](exports/psd-zoo/text/with_color/LVGL/) |
 | [<img src="images/imagedata/psd-zoo/text/with_color.png" width="140">](images/imagedata/psd-zoo/text/with_color.png) | [<img src="images/psdview/psd-zoo/text/with_color.png" width="140">](images/psdview/psd-zoo/text/with_color.png) | [<img src="images/qtquick/psd-zoo/text/with_color.png" width="140">](images/qtquick/psd-zoo/text/with_color.png) | [<img src="images/slint/psd-zoo/text/with_color.png" width="140">](images/slint/psd-zoo/text/with_color.png) | [<img src="images/flutter/psd-zoo/text/with_color.png" width="140">](images/flutter/psd-zoo/text/with_color.png) | [<img src="images/lvgl/psd-zoo/text/with_color.png" width="140">](images/lvgl/psd-zoo/text/with_color.png) |
-| [with_effect.psd](https://github.com/signal-slot/psd-zoo/blob/master/text/with_effect.psd) | 70.53% | [FAILED](exports/psd-zoo/text/with_effect/QtQuick/) | [44.12%](exports/psd-zoo/text/with_effect/Slint/) | [34.24%](exports/psd-zoo/text/with_effect/Flutter/) | [29.74%](exports/psd-zoo/text/with_effect/LVGL/) |
+| [with_effect.psd](https://github.com/signal-slot/psd-zoo/blob/master/text/with_effect.psd) | 70.53% | [FAILED](exports/psd-zoo/text/with_effect/QtQuick/) | [52.69%](exports/psd-zoo/text/with_effect/Slint/) | [34.24%](exports/psd-zoo/text/with_effect/Flutter/) | [29.74%](exports/psd-zoo/text/with_effect/LVGL/) |
 | [<img src="images/imagedata/psd-zoo/text/with_effect.png" width="140">](images/imagedata/psd-zoo/text/with_effect.png) | [<img src="images/psdview/psd-zoo/text/with_effect.png" width="140">](images/psdview/psd-zoo/text/with_effect.png) | - | [<img src="images/slint/psd-zoo/text/with_effect.png" width="140">](images/slint/psd-zoo/text/with_effect.png) | [<img src="images/flutter/psd-zoo/text/with_effect.png" width="140">](images/flutter/psd-zoo/text/with_effect.png) | [<img src="images/lvgl/psd-zoo/text/with_effect.png" width="140">](images/lvgl/psd-zoo/text/with_effect.png) |
 
 ## text_warp
